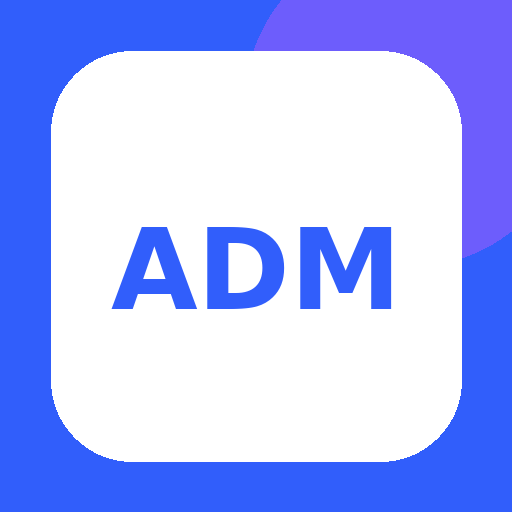
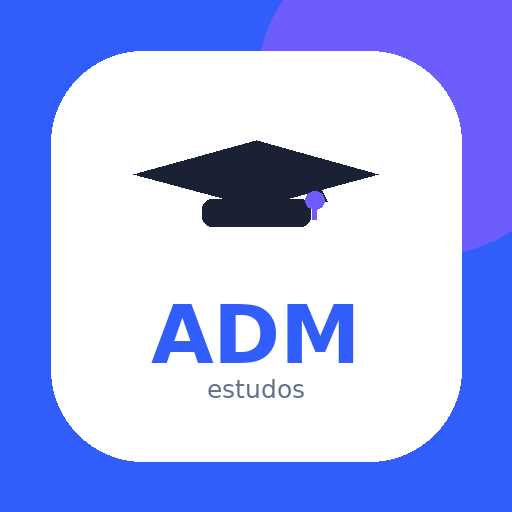
Add files via upload

diff --git a/styles.css b/styles.css
@@ -23,6 +23,8 @@ button{cursor:pointer}
 .brand{display:flex;gap:10px;align-items:center;background:none;border:0;color:var(--text);text-align:left;padding:0}
 .brandMark{width:42px;height:42px;border-radius:13px;display:grid;place-items:center;font-weight:900;background:linear-gradient(135deg,var(--accent),var(--accent2));color:#fff;box-shadow:var(--shadow)}
 .brand b,.brand small{display:block}.brand small{color:var(--muted);font-size:11px;letter-spacing:.12em;text-transform:uppercase}
+
+.topbarActions{display:flex;align-items:center;gap:10px}.installBtn{border:1px solid var(--line);background:linear-gradient(135deg,var(--accent),var(--accent2));color:#fff;border-radius:14px;padding:9px 14px;font-weight:800;box-shadow:var(--shadow)}.installBtn.hidden{display:none}.installBtn.secondaryState{background:var(--surface);color:var(--text)}
 .themeBox{display:flex;padding:4px;background:var(--surface);border:1px solid var(--line);border-radius:14px;box-shadow:var(--shadow)}
 .themeBox button{width:38px;height:34px;border:0;background:transparent;border-radius:10px}.themeBox button.active{background:var(--surface2)}
 .app{max-width:1180px;margin:0 auto;padding:34px 18px 80px}
@@ -46,4 +48,4 @@ button{cursor:pointer}
 .celebration{position:fixed;inset:0;z-index:100;background:rgba(4,8,18,.72);display:grid;place-items:center;overflow:hidden}.celebration.hidden{display:none}#confettiCanvas{position:absolute;inset:0;width:100%;height:100%}.celebrateCard{position:relative;z-index:2;padding:38px 44px;text-align:center;border-radius:28px;background:var(--surface);border:1px solid var(--line);box-shadow:var(--shadow);animation:pop .45s ease}.celebrateCard .trophy{font-size:54px}.celebrateCard h1{font-size:48px;margin:8px}.celebrateCard p{font-size:24px;font-weight:800;margin:0;color:var(--accent)}
 @keyframes pop{from{transform:scale(.7);opacity:0}to{transform:scale(1);opacity:1}}
 @media(max-width:820px){.lessonGrid{grid-template-columns:1fr 1fr}.hero{grid-template-columns:1fr}.heroBadge{width:110px;height:110px}.modeGrid{grid-template-columns:1fr}}
-@media(max-width:560px){.app{padding:24px 12px 70px}.lessonGrid{grid-template-columns:1fr}.hero{padding:24px}.hero h1{font-size:38px}.qCard{padding:19px}.flashCard{height:430px}.quizActions{bottom:8px}.celebrateCard{margin:18px;padding:30px 22px}.celebrateCard h1{font-size:38px}.celebrateCard p{font-size:20px}}
+@media(max-width:560px){.app{padding:24px 12px 70px}.lessonGrid{grid-template-columns:1fr}.hero{padding:24px}.hero h1{font-size:38px}.qCard{padding:19px}.flashCard{height:430px}.quizActions{bottom:8px}.celebrateCard{margin:18px;padding:30px 22px}.celebrateCard h1{font-size:38px}.celebrateCard p{font-size:20px}.topbarActions{gap:8px}.installBtn{padding:9px 12px;font-size:14px}}

diff --git a/app.js b/app.js
@@ -4,6 +4,7 @@ const celebration = document.getElementById("celebration");
 let currentLesson = null;
 let flashIndex = 0;
 let flashFlipped = false;
+let deferredInstallPrompt = null;
 
 const stateKey = "admSimoneProgressV1";
 const getState = () => JSON.parse(localStorage.getItem(stateKey) || "{}");
@@ -18,6 +19,58 @@ function setTheme(theme){
 }
 document.querySelectorAll("[data-theme]").forEach(b=>b.addEventListener("click",()=>setTheme(b.dataset.theme)));
 setTheme(localStorage.getItem("admTheme") || "day");
+
+const installBtn = document.getElementById("installBtn");
+function updateInstallButton(mode = "auto") {
+  if (!installBtn) return;
+  if (mode === "available") {
+    installBtn.classList.remove("hidden","secondaryState");
+    installBtn.textContent = "⬇ Instalar";
+    installBtn.disabled = false;
+  } else if (mode === "installed") {
+    installBtn.classList.remove("hidden");
+    installBtn.classList.add("secondaryState");
+    installBtn.textContent = "✔ Instalado";
+    installBtn.disabled = true;
+  } else {
+    installBtn.classList.remove("hidden");
+    installBtn.classList.add("secondaryState");
+    installBtn.textContent = "📲 Como instalar";
+    installBtn.disabled = false;
+  }
+}
+
+window.addEventListener("beforeinstallprompt", (e) => {
+  e.preventDefault();
+  deferredInstallPrompt = e;
+  updateInstallButton("available");
+});
+
+window.addEventListener("appinstalled", () => {
+  deferredInstallPrompt = null;
+  updateInstallButton("installed");
+});
+
+function isStandalone() {
+  return window.matchMedia("(display-mode: standalone)").matches || window.navigator.standalone === true;
+}
+
+installBtn?.addEventListener("click", async () => {
+  if (isStandalone()) {
+    updateInstallButton("installed");
+    return;
+  }
+  if (deferredInstallPrompt) {
+    deferredInstallPrompt.prompt();
+    const result = await deferredInstallPrompt.userChoice;
+    if (result && result.outcome !== "accepted") updateInstallButton("auto");
+    deferredInstallPrompt = null;
+    return;
+  }
+  alert("Para instalar o ADM, abra o menu do navegador e escolha 'Instalar aplicativo', 'Adicionar à tela inicial' ou opção equivalente.");
+});
+
+updateInstallButton(isStandalone() ? "installed" : "auto");
 
 document.getElementById("homeBtn").addEventListener("click", renderHome);
 

diff --git a/index.html b/index.html
@@ -14,13 +14,13 @@
 <body>
   <header class="topbar">
     <button class="brand" id="homeBtn" aria-label="Início">
-      <span class="brandMark">F</span><span><b>ADM</b><small>Simone</small></span>
+      <span class="brandMark">🎓</span><span><b>ADM</b><small>Simone</small></span>
     </button>
-    <div class="themeBox" aria-label="Tema">
+    <div class="topbarActions"><button id="installBtn" class="installBtn hidden" type="button" title="Instalar ADM">⬇ Instalar</button><div class="themeBox" aria-label="Tema">
       <button data-theme="day" title="Modo dia">☀</button>
       <button data-theme="night" title="Modo noite">🌙</button>
       <button data-theme="neon" title="Modo neon">⚡</button>
-    </div>
+    </div></div>
   </header>
 
   <main id="app" class="app"></main>
